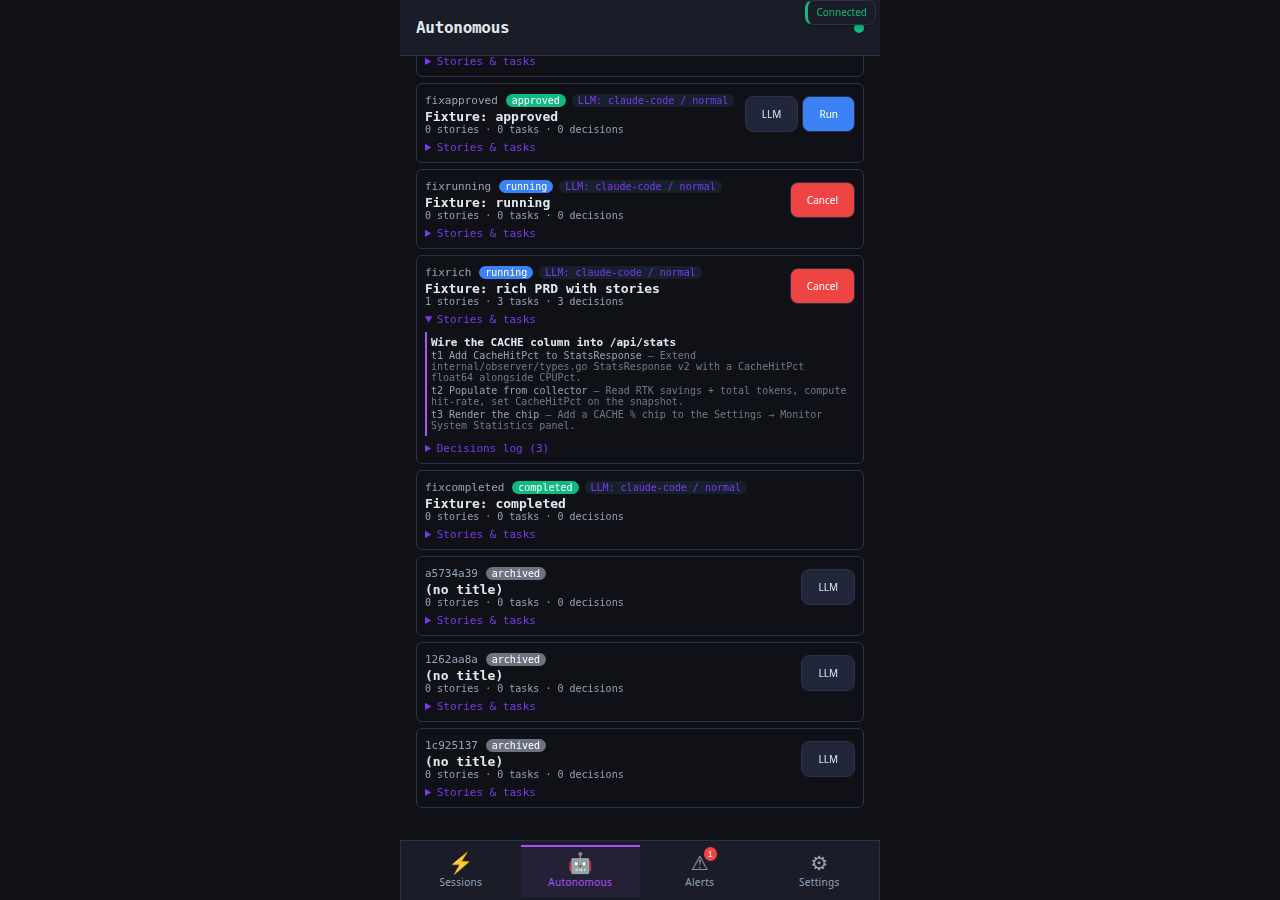
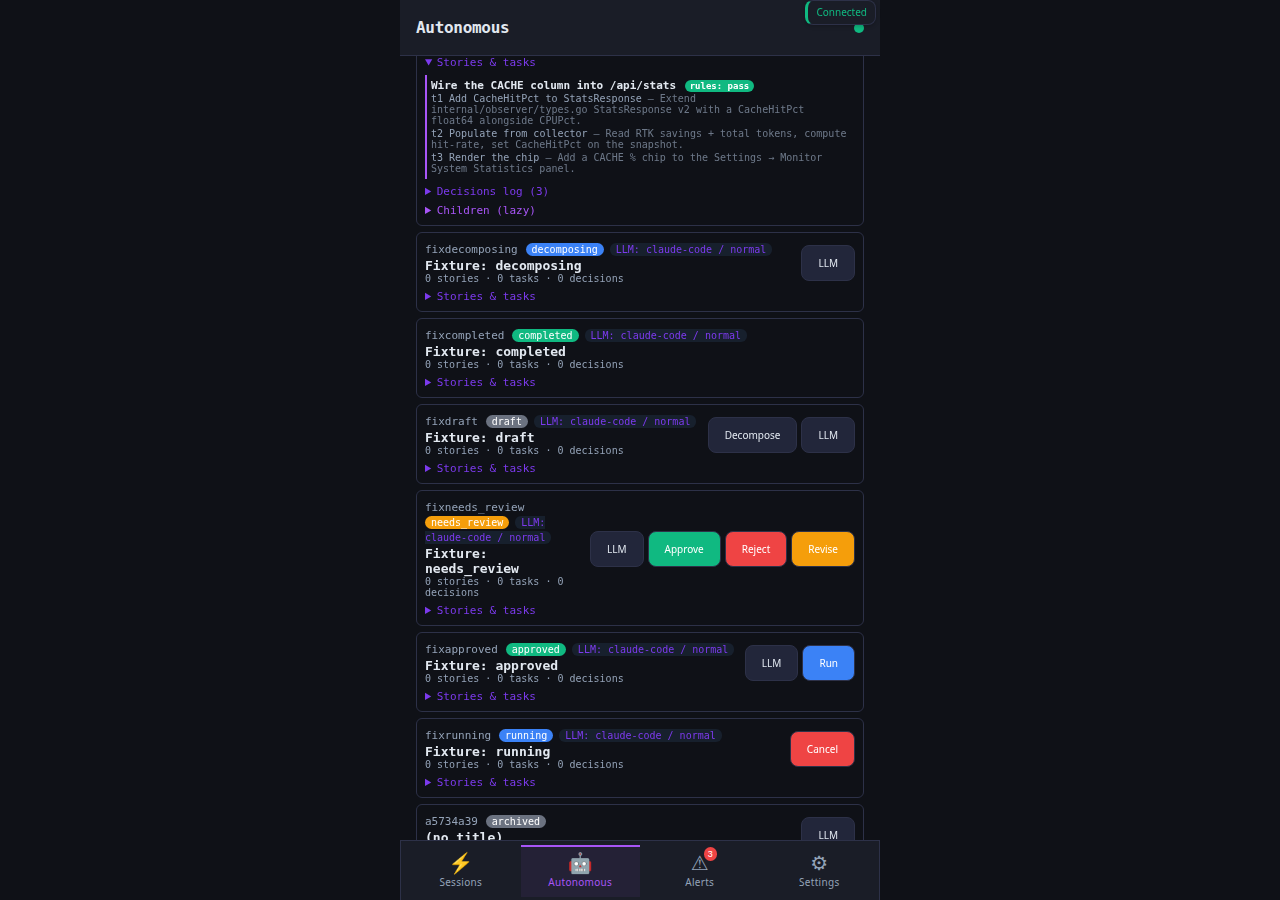
release(v5.16.0): PWA viz for v5.9 + v5.10 + v5.12 data-model work
Three contained PWA additions (internal/server/web/app.js only) that
surface data the daemon was already producing but the PWA wasn't
rendering:

(1) BL191 Q4 PWA — PRD genealogy:
- PRD cards show `↗ parent <id>` + `depth N` badges when those
  fields are set
- New "Children (lazy)" disclosure under Stories & tasks calls
  GET /api/autonomous/prds/{id}/children + renders one row per
  child with status pill + title + depth
- Per-task: `↳ spawn` badge when task.spawn_prd === true,
  `→ child <id>` link once executor has spawned

(2) BL191 Q6 PWA — verdict badges:
- Story-level + task-level Verdicts render inline next to titles
- Color-coded by outcome (green pass / amber warn / red block)
- Hover tooltip surfaces severity + summary + first three issues

(3) BL180 cross-host PWA — Cross-host view modal:
- New "↔ Cross-host view" button on the Federated peers filter row
- Opens a modal that fetches /api/observer/envelopes/all-peers and
  renders one collapsible section per peer (local + every A/B/C peer)
- Each envelope shows listen addrs + outbound edges + caller rows
- Cross-peer attributions get a `🔗 cross` badge so the operator
  sees at a glance which envelopes are reached across hosts

New screenshot recipe (cross-host-modal) added to howto-shoot.mjs;
the modal capture inlined into federated-observer.md.

Tests: 1355 still passing (no Go changes; everything's client-side).
make cross built all 5 binaries.
[…]

Changed region(s): [[0.3125, 0.0622, 0.6875, 0.9333]]

diff --git a/internal/server/web/app.js b/internal/server/web/app.js
@@ -3815,11 +3815,19 @@ function renderPRDRow(prd) {
   const llmBadge = (prd.backend || prd.effort || prd.model)
     ? `<span style="font-size:10px;color:var(--accent);margin-left:6px;background:rgba(96,165,250,0.1);padding:1px 6px;border-radius:6px;">LLM: ${escHtml(prd.backend || 'inherit')}${prd.effort ? ' / ' + escHtml(String(prd.effort)) : ''}${prd.model ? ' / ' + escHtml(prd.model) : ''}</span>`
     : '';
+  // BL191 Q4 (v5.16.0) — genealogy badges. Parent link + depth indicator
+  // when this PRD was spawned from a parent task's SpawnPRD shortcut.
+  const parentBadge = prd.parent_prd_id
+    ? `<span style="font-size:10px;color:var(--accent2);margin-left:6px;background:rgba(124,58,237,0.12);padding:1px 6px;border-radius:6px;" title="parent PRD ${escHtml(prd.parent_prd_id)} task ${escHtml(prd.parent_task_id || '')}">↗ parent ${escHtml(prd.parent_prd_id)}</span>`
+    : '';
+  const depthBadge = prd.depth
+    ? `<span style="font-size:10px;color:var(--text2);margin-left:4px;background:rgba(255,255,255,0.05);padding:1px 6px;border-radius:6px;" title="recursion depth from a root PRD">depth ${prd.depth}</span>`
+    : '';
   const actions = renderPRDActions(prd);
   return `<div class="prd-row" style="border:1px solid var(--border);border-radius:6px;padding:8px;margin:6px 0;background:var(--bg);">
     <div style="display:flex;justify-content:space-between;align-items:center;gap:6px;flex-wrap:wrap;">
       <div style="flex:1;min-width:0;">
-        <code style="font-size:11px;color:var(--text2);">${escHtml(id)}</code> ${statusPill(prd.status)}${tplBadge}${tplOf}${llmBadge}
+        <code style="font-size:11px;color:var(--text2);">${escHtml(id)}</code> ${statusPill(prd.status)}${tplBadge}${tplOf}${llmBadge}${parentBadge}${depthBadge}
         <div style="margin-top:2px;color:var(--text);font-weight:600;">${escHtml(prd.title || '(no title)')}</div>
         <div style="font-size:10px;color:var(--text2);">${stories.length} stories &middot; ${taskCount} tasks &middot; ${prd.decisions ? prd.decisions.length : 0} decisions</div>
       </div>
@@ -3828,14 +3836,44 @@ function renderPRDRow(prd) {
     <details style="margin-top:6px;"><summary style="cursor:pointer;font-size:11px;color:var(--accent);">Stories &amp; tasks</summary>
       <div style="margin-top:6px;">${stories.map(st => renderStory(prd, st)).join('') || '<em style="color:var(--text2);">no stories yet</em>'}</div>
       ${prd.decisions && prd.decisions.length ? '<details style="margin-top:6px;"><summary style="cursor:pointer;font-size:11px;color:var(--accent);">Decisions log (' + prd.decisions.length + ')</summary>' + prd.decisions.map(d => '<div style="font-size:10px;color:var(--text2);padding:2px 0;border-top:1px solid var(--border);"><code>' + escHtml(d.kind) + '</code> ' + escHtml(d.actor || '') + ' ' + escHtml((d.note || '')) + '</div>').join('') + '</details>' : ''}
+      <details style="margin-top:6px;"><summary style="cursor:pointer;font-size:11px;color:var(--accent2);">Children (lazy)</summary>
+        <div id="prd-children-${escHtml(id)}" data-prd-id="${escHtml(id)}" style="font-size:10px;color:var(--text2);padding:2px 0;">
+          <button class="btn-secondary" style="font-size:10px;" onclick="loadPRDChildren(${JSON.stringify(id)})">Load</button>
+        </div>
+      </details>
     </details>
   </div>`;
 }
 
+// BL191 Q4 (v5.16.0) — fetch the child PRDs spawned by this parent's
+// SpawnPRD tasks. Lazy: triggered by the "Load" button on the Children
+// disclosure so empty PRDs don't pay the GET cost.
+window.loadPRDChildren = function(prdID) {
+  const target = document.getElementById('prd-children-' + prdID);
+  if (!target) return;
+  target.innerHTML = '<em>loading…</em>';
+  apiFetch('/api/autonomous/prds/' + encodeURIComponent(prdID) + '/children').then(data => {
+    const kids = (data && data.children) || [];
+    if (kids.length === 0) {
+      target.innerHTML = '<em style="opacity:0.7;">no children — none of this PRD\'s tasks spawned a child PRD yet</em>';
+      return;
+    }
+    target.innerHTML = kids.map(c =>
+      `<div style="padding:2px 0;border-top:1px solid var(--border);">↳ <code>${escHtml(c.id)}</code> ${statusPill(c.status)} <strong>${escHtml(c.title || '(no title)')}</strong> <span style="opacity:0.7;">depth ${c.depth || 0}</span></div>`
+    ).join('');
+  }).catch(err => {
+    target.innerHTML = '<span style="color:var(--error,#ef4444);">load failed: ' + escHtml(String((err && err.message) || err)) + '</span>';
+  });
+};
+
 function renderStory(prd, story) {
   const tasks = (story.tasks || []).map(t => renderTask(prd, story, t)).join('');
+  // BL191 Q6 (v5.16.0) — story-level verdicts. One badge per guardrail
+  // returned at the story level after every task in this story
+  // completes. `block` paints the parent PRD blocked.
+  const verdicts = renderVerdicts(story.verdicts);
   return `<div style="margin:4px 0;padding:4px;border-left:2px solid var(--accent2);">
-    <div style="font-size:11px;font-weight:600;">${escHtml(story.title || story.id)}</div>
+    <div style="font-size:11px;font-weight:600;">${escHtml(story.title || story.id)}${verdicts}</div>
     ${tasks}
   </div>`;
 }
@@ -3847,10 +3885,34 @@ function renderTask(prd, story, task) {
   const llmBadge = (task.backend || task.effort || task.model)
     ? `<span style="font-size:9px;color:var(--accent);margin-left:4px;background:rgba(96,165,250,0.1);padding:1px 4px;border-radius:4px;">LLM: ${escHtml(task.backend || 'inherit')}${task.effort ? ' / ' + escHtml(String(task.effort)) : ''}${task.model ? ' / ' + escHtml(task.model) : ''}</span>`
     : '';
+  // BL191 Q4 (v5.16.0) — SpawnPRD shortcut affordances. Indicator that
+  // the task spec is treated as a child PRD spec; when the executor has
+  // already spawned a child, show the link.
+  const spawnBadge = task.spawn_prd
+    ? `<span style="font-size:9px;color:var(--accent2);margin-left:4px;background:rgba(124,58,237,0.12);padding:1px 4px;border-radius:4px;" title="this task spec is a child PRD spec; executor will Decompose+(auto-)Approve+Run">↳ spawn</span>`
+    : '';
+  const childLink = task.child_prd_id
+    ? `<span style="font-size:9px;color:var(--accent);margin-left:4px;">→ child <code>${escHtml(task.child_prd_id)}</code></span>`
+    : '';
+  // BL191 Q6 (v5.16.0) — task-level verdicts.
+  const verdicts = renderVerdicts(task.verdicts);
   return `<div style="display:flex;justify-content:space-between;font-size:10px;color:var(--text2);padding:1px 0;">
-    <span><code>${escHtml(task.id)}</code> ${escHtml(task.title || '')} ${llmBadge} <span style="opacity:0.7;">— ${escHtml(task.spec || '')}</span></span>
+    <span><code>${escHtml(task.id)}</code> ${escHtml(task.title || '')} ${llmBadge}${spawnBadge}${childLink}${verdicts} <span style="opacity:0.7;">— ${escHtml(task.spec || '')}</span></span>
     ${editBtn}
   </div>`;
+}
+
+// BL191 Q6 (v5.16.0) — per-guardrail verdict badges shown inline on
+// stories + tasks. Color-coded by outcome with a tooltip showing
+// severity + summary + first issue.
+function renderVerdicts(verdicts) {
+  if (!verdicts || verdicts.length === 0) return '';
+  const colors = { pass: '#10b981', warn: '#f59e0b', block: '#ef4444' };
+  return ' ' + verdicts.map(v => {
+    const c = colors[v.outcome] || '#6b7280';
+    const tip = (v.summary || '') + (v.severity ? ' [' + v.severity + ']' : '') + (v.issues && v.issues.length ? '\n• ' + v.issues.slice(0, 3).join('\n• ') : '');
+    return `<span title="${escHtml(tip)}" style="background:${c};color:#fff;font-size:9px;padding:1px 5px;border-radius:6px;margin-left:2px;">${escHtml(v.guardrail || '?')}: ${escHtml(v.outcome || '?')}</span>`;
+  }).join('');
 }
 
 function renderPRDActions(prd) {
@@ -6641,11 +6703,12 @@ function loadObserverPeers() {
       return `<button class="filter-toggle-btn" style="${active}" onclick="setPeerFilter('${val}')">${label} (${counts[val]||0})</button>`;
     };
     const pills = peers.length > 0
-      ? `<div style="display:flex;gap:4px;padding:0 0 6px;flex-wrap:wrap;">
+      ? `<div style="display:flex;gap:4px;padding:0 0 6px;flex-wrap:wrap;align-items:center;">
           ${pillBtn('all','All')}
           ${pillBtn('A','Agents')}
           ${pillBtn('B','Standalone')}
           ${pillBtn('C','Cluster')}
+          <button class="filter-toggle-btn" style="margin-left:auto;background:rgba(96,165,250,0.18);" onclick="showCrossHostView()" title="BL180 Phase 2 — local + every peer with cross-peer caller attribution">↔ Cross-host view</button>
         </div>` : '';
 
     if (!peers.length) {
@@ -6690,6 +6753,68 @@ function loadObserverPeers() {
       + `<span style="opacity:0.7;">enable with <code>observer.peers.allow_register: true</code></span>`;
   });
 }
+
+// BL180 Phase 2 cross-host (v5.16.0) — modal that fetches the
+// federation-aware envelope view from /api/observer/envelopes/all-peers
+// and renders one collapsible block per peer. CallerAttribution rows
+// with `<peer>:<envelope-id>` prefixes (cross-host) get a 🔗 badge so
+// operators can see at a glance which envelopes are reached across
+// peers vs. only locally.
+window.showCrossHostView = function() {
+  const existing = document.getElementById('crossHostModal');
+  if (existing) existing.remove();
+  const modal = document.createElement('div');
+  modal.id = 'crossHostModal';
+  modal.className = 'confirm-modal-overlay';
+  modal.innerHTML = `<div class="confirm-modal" style="max-width:900px;width:90vw;max-height:85vh;overflow:auto;padding:0;">
+    <div style="display:flex;justify-content:space-between;align-items:center;padding:10px 14px;border-bottom:1px solid var(--border);">
+      <strong>Cross-host envelope view</strong>
+      <button class="btn-icon" style="font-size:16px;" onclick="document.getElementById('crossHostModal').remove();">&times;</button>
+    </div>
+    <div id="crossHostBody" style="padding:12px;font-size:12px;">
+      <em style="color:var(--text2);">loading /api/observer/envelopes/all-peers …</em>
+    </div>
+  </div>`;
+  document.body.appendChild(modal);
+  apiFetch('/api/observer/envelopes/all-peers').then(data => {
+    const body = document.getElementById('crossHostBody');
+    if (!body) return;
+    const byPeer = (data && data.by_peer) || {};
+    const peerNames = Object.keys(byPeer);
+    if (peerNames.length === 0) {
+      body.innerHTML = '<em style="opacity:0.7;">no envelopes anywhere — local observer empty + no peers pushed yet</em>';
+      return;
+    }
+    const sections = peerNames.map(peer => {
+      const envs = byPeer[peer] || [];
+      const envHtml = envs.map(e => {
+        const callers = (e.callers || []).map(c => {
+          const isCross = (c.caller || '').includes(':') && (c.caller || '').split(':').length >= 3;
+          const tag = isCross
+            ? `<span title="cross-host attribution" style="background:rgba(96,165,250,0.25);color:var(--accent);font-size:9px;padding:1px 4px;border-radius:4px;margin-right:3px;">🔗 cross</span>`
+            : '';
+          return `<div style="font-size:10px;color:var(--text2);padding-left:12px;">${tag}<code>${escHtml(c.caller || '?')}</code> <span style="opacity:0.7;">${escHtml(c.caller_kind || '')} · ${c.conns || 0} conns</span></div>`;
+        }).join('');
+        const listenSummary = (e.listen_addrs || []).map(la => `${la.ip}:${la.port}`).join(', ');
+        const outboundSummary = (e.outbound_edges || []).map(oe => `${oe.target_ip}:${oe.target_port}`).join(', ');
+        return `<div style="padding:4px 0;border-top:1px solid var(--border);">
+          <div><code style="font-size:11px;">${escHtml(e.id || '?')}</code> <span style="opacity:0.6;">${escHtml(e.kind || '')}</span> <strong>${escHtml(e.label || '')}</strong></div>
+          ${listenSummary ? `<div style="font-size:10px;color:var(--text2);">listen: ${escHtml(listenSummary)}</div>` : ''}
+          ${outboundSummary ? `<div style="font-size:10px;color:var(--text2);">outbound: ${escHtml(outboundSummary)}</div>` : ''}
+          ${callers}
+        </div>`;
+      }).join('') || '<em style="opacity:0.7;font-size:10px;">no envelopes</em>';
+      return `<details open style="margin-bottom:8px;">
+        <summary style="cursor:pointer;font-weight:600;">${escHtml(peer)} <span style="opacity:0.6;font-weight:normal;">(${envs.length} envelopes)</span></summary>
+        <div style="margin-top:4px;padding-left:6px;">${envHtml}</div>
+      </details>`;
+    }).join('');
+    body.innerHTML = sections;
+  }).catch(err => {
+    const body = document.getElementById('crossHostBody');
+    if (body) body.innerHTML = `<span style="color:var(--error,#ef4444);">load failed: ${escHtml(String((err && err.message) || err))}</span>`;
+  });
+};
 
 // observerPeerAgo formats a millisecond delta as "Xs / Xm / Xh ago".
 function observerPeerAgo(ms) {

diff --git a/internal/server/api.go b/internal/server/api.go
@@ -78,7 +78,7 @@ type KGAPI interface {
 var startTime = time.Now()
 
 // Version is set at build time. The server package uses this for /api/health and /api/info.
-var Version = "5.15.0"
+var Version = "5.16.0"
 
 // Server holds all HTTP handler dependencies
 type Server struct {

diff --git a/cmd/datawatch/main.go b/cmd/datawatch/main.go
@@ -86,7 +86,7 @@ import (
 )
 
 // Version is set at build time via -ldflags.
-var Version = "5.15.0"
+var Version = "5.16.0"
 
 var (
 	cfgPath    string

diff --git a/docs/plans/README.md b/docs/plans/README.md
@@ -70,6 +70,7 @@ _(empty — every item that was here as of v5.0.5 is now answered or shipped. Ne
 
 | ID | Closed in | What |
 |----|-----------|------|
+| PWA viz for shipped data-model work | v5.16.0 | Three contained PWA additions (`internal/server/web/app.js` only) that surface data the daemon was already producing through `/api/autonomous/prds/...` and `/api/observer/envelopes/all-peers` but the PWA wasn't rendering. (1) BL191 Q4 — PRD cards show `↗ parent <id>` + `depth N` badges; new **Children (lazy)** disclosure renders the genealogy tree; per-task `↳ spawn` + `→ child <id>` affordances. (2) BL191 Q6 — color-coded inline verdict badges on every story + task with hover tooltips for severity/summary/issues. (3) BL180 cross-host — "↔ Cross-host view" button on Federated peers, opens a modal that walks `/api/observer/envelopes/all-peers` and tags cross-peer caller rows with `🔗 cross`. New `cross-host-modal` recipe added to `scripts/howto-shoot.mjs` + screenshot inlined into federated-observer howto. |
 | BL190 density expansion | v5.15.0 | Recipe map 11 → 19; 22 PNGs total. New recipes cover mobile viewports (sessions/autonomous/settings-monitor/session-detail), Settings deep-scrolls (general → autonomous block, general → auto-update, comms → Signal, LLM → Ollama, LLM → Episodic Memory), the autonomous-prd-expanded toggle (with seeded fixrich PRD carrying 1 story + 3 tasks + 3 decisions + 1 verdict), the diagrams-flow content view, and the header-search filter chips. Inline coverage extended across 8 howtos with multi-shot sequences. Seed-fixtures script enriched with the `fixrich` PRD so the expanded screenshot shows real story+task+decisions content rather than "no stories yet". |
 | BL190 expand-and-fill | v5.14.0 | Recipe map grew from 6 to 11 (`settings-monitor`, `settings-about`, `alerts-tab`, `autonomous-new-prd-modal`, `session-detail` added). 11 screenshots committed under `docs/howto/screenshots/`. Inline coverage extended from 4 to 13 howtos — every walkthrough now has at least one PNG: setup-and-install + container-workers + cross-agent-memory + federated-observer + daemon-operations get `settings-monitor`; daemon-operations + setup-and-install get `settings-about`; daemon-operations gets `alerts-tab`; autonomous-review-approve gets `autonomous-landing` + `autonomous-new-prd-modal`; chat-and-llm-quickstart + pipeline-chaining get `session-detail`; comm-channels gets `settings-comms`; prd-dag-orchestrator gets `autonomous-landing`. Per-howto density (1-3 PNGs each) is below the original 15-20-per-howto target; the pipeline is in place for further iterative expansion. |
 | BL180 Phase 2 eBPF kprobes (resume) | v5.13.0 | Per the BL292 commit roadmap: new `tcp_connect` (outbound) + `inet_csk_accept` (inbound) kprobes feeding a `conn_attribution` BPF_MAP_TYPE_LRU_HASH (key = sock pointer, value = {pid, ts_ns}). LRU eviction bounds memory; new userspace `realLinuxKprobeProbe.ReadConnAttribution()` iterates the map and `PruneConnAttribution(olderThanNs)` walks + deletes stale entries for freshness. Loader attempts attach on the new probes; failure is non-fatal (existing partial-mode fallback keeps byte counters live). bpf2go regenerated cleanly under clang 20.1.8 with both committed `vmlinux_amd64` + `vmlinux_arm64` headers; new `.o` artifacts updated in tree. 3 new unit tests cover the nil-safe iterator + post-Close idempotence + ConnAttribution row shape; real attach is gated by CAP_BPF and validated via the operator's Thor smoke-test (BL180 design Q6). |

diff --git a/docs/plans/RELEASE-NOTES-v5.16.0.md b/docs/plans/RELEASE-NOTES-v5.16.0.md
@@ -1,0 +1,84 @@
+# datawatch v5.16.0 — release notes
+
+**Date:** 2026-04-26
+**Spans:** v5.15.0 → v5.16.0
+**Closed:** PWA visualization gaps for v5.9.0 (BL191 Q4) + v5.10.0 (BL191 Q6) + v5.12.0 (BL180 cross-host)
+
+## What's new
+
+Three contained PWA additions that surface data the daemon was
+already producing through `/api/autonomous/prds/...` and
+`/api/observer/envelopes/all-peers`:
+
+### BL191 Q4 — PRD genealogy badges + Children disclosure
+
+Every PRD card on the Autonomous tab now shows:
+
+- **`↗ parent <id>`** badge when `parent_prd_id` is set (PRD was
+  spawned from a parent task's `SpawnPRD` shortcut)
+- **`depth N`** badge when `depth > 0`
+- New **Children (lazy)** disclosure under the Stories & tasks
+  block — clicking "Load" calls `GET /api/autonomous/prds/{id}/children`
+  and renders one row per child PRD with status pill + title + depth
+
+Per-task affordances also gain:
+
+- **`↳ spawn`** badge when `task.spawn_prd === true` (operator
+  flagged this task to spawn a child PRD instead of running directly)
+- **`→ child <id>`** link once the executor has spawned the child
+
+### BL191 Q6 — Per-story / per-task verdict badges
+
+`Story.Verdicts` and `Task.Verdicts` (populated when
+`Config.PerStoryGuardrails` / `Config.PerTaskGuardrails` are
+non-empty) now render inline next to the story title and task title
+respectively:
+
+```
+[rules: pass]  [security: warn]  [release-readiness: block]
+```
+
+- Color-coded by outcome (green / amber / red)
+- Hover tooltip surfaces severity, summary, and the first three
+  issues
+- Block outcomes pop visually so operators see them immediately
+
+### BL180 cross-host — `↔ Cross-host view` modal
+
+Added a "Cross-host view" button to the Federated peers filter
+row on Settings → Monitor. Clicking it opens a modal that fetches
+`/api/observer/envelopes/all-peers` and renders one collapsible
+section per peer (local + every Shape A/B/C peer) with:
+
+- Each envelope's listen addrs + outbound edges visible inline
+- CallerAttribution rows with per-caller conn counts
+- **`🔗 cross`** badge on caller rows whose ID matches the
+  `<peer>:<envelope-id>` cross-host pattern (output of
+  `CorrelateAcrossPeers`)
+
+This is the operator-facing surface for the v5.12.0 cross-host
+correlation work.
+
+## Tests
+
+No new tests — the changes are all in `internal/server/web/app.js`
+(client-side rendering) and don't affect the Go test surface.
+**1355 still passing in 58 packages**; daemon still starts.
+
+## Known follow-ups (still open)
+
+- **BL190 deeper density** — failure-path popup, mid-run progress,
+  verdict drill-down panel. Iterative.
+
+## Upgrade path
+
+```bash
+datawatch update                            # check + install
+datawatch restart                           # apply the new binary
+
+# After at least one PRD with SpawnPRD, the genealogy badges show.
+# After PerTaskGuardrails / PerStoryGuardrails are configured + run,
+# verdict badges show inline.
+# After ≥2 federated peers are pushing, the Cross-host view modal
+# populates with cross-peer attribution.
+```

diff --git a/CHANGELOG.md b/CHANGELOG.md
@@ -7,6 +7,29 @@ Format based on [Keep a Changelog](https://keepachangelog.com/en/1.0.0/).
 
 _(nothing pending)_
 
+## [5.16.0] - 2026-04-26
+
+Minor — PWA visualizations for the v5.9.0 / v5.10.0 / v5.12.0
+data-model work.
+
+### Added
+
+- **BL191 Q4 PWA viz.** PRD cards on the Autonomous tab show
+  `↗ parent <id>` + `depth N` badges when present; new
+  **Children (lazy)** disclosure calls
+  `GET /api/autonomous/prds/{id}/children` to render the genealogy
+  tree. Per-task: `↳ spawn` badge for `task.spawn_prd === true`,
+  `→ child <id>` link once the executor has spawned the child.
+- **BL191 Q6 PWA viz.** Story-level + task-level verdict badges
+  render inline next to titles. Color-coded by outcome
+  (pass / warn / block); tooltip surfaces severity + summary +
+  first three issues.
+- **BL180 cross-host PWA viz.** New "↔ Cross-host view" button on
+  the Federated peers filter row. Opens a modal that fetches
+  `/api/observer/envelopes/all-peers` and renders one collapsible
+  section per peer with listen addrs, outbound edges, and caller
+  rows (cross-host attributions get a `🔗 cross` badge).
+
 ## [5.15.0] - 2026-04-26
 
 Minor — BL190 density expansion (first cut).

diff --git a/docs/howto/federated-observer.md b/docs/howto/federated-observer.md
@@ -144,6 +144,16 @@ ollama backend (k8s-cluster-prod):
     session:openwebui-c3d4 (workstation-2)  40%
 ```
 
+The PWA exposes this through the **↔ Cross-host view** button on
+the Federated peers card (Settings → Monitor). The modal collapses
+local + every peer into one screen with cross-host attributions
+flagged 🔗 cross:
+
+![Cross-host envelope view — local + peer envelopes with cross-host Caller rows](screenshots/cross-host-modal.png)
+
+Reachable via REST too: `GET /api/observer/envelopes/all-peers`,
+MCP `observer_envelopes_all_peers`, CLI `datawatch observer envelopes-all-peers`.
+
 ## Token rotation
 
 Peer tokens auto-rotate every `observer.peers.token_ttl_seconds`
